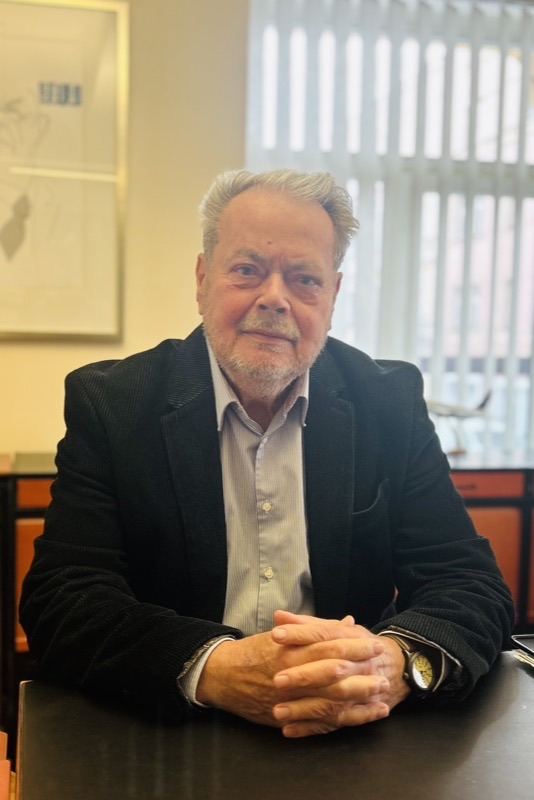
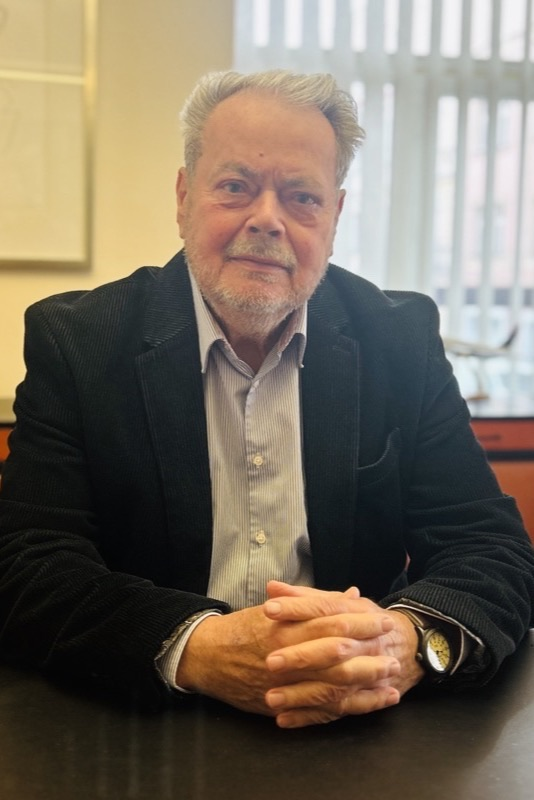
ok-tours: client update — new Trejtnar photo, mottos, contact hours
- Replace Pavel Trejtnar's photo with the client's new shot (cropped
  + resized to 534x800, matching the other team portraits); cache-bust
  bumped to v=20260519
- Add real leadership mottos under each team photo (CS + EN translated),
  replacing the Lorem ipsum placeholders
- Contacts: business hours 8:00-18:00 -> 8:30-17:30 (visible text +
  JSON-LD openingHours)
- Contacts: emergency line now "pro smluvní klienty" + phone 221 509 196

diff --git a/index-en.html b/index-en.html
@@ -91,8 +91,8 @@
         "openingHoursSpecification": {
           "@type": "OpeningHoursSpecification",
           "dayOfWeek": ["Monday","Tuesday","Wednesday","Thursday","Friday"],
-          "opens": "08:00",
-          "closes": "18:00"
+          "opens": "08:30",
+          "closes": "17:30"
         }
       },
       {
@@ -824,11 +824,11 @@
     <p class="lead">Behind every successful trip stands an experienced professional. Our team is made up of experts with years of practice in the travel industry, always at your service.</p>
     <div class="team-grid">
       <div class="team-card">
-        <div class="team-photo" style="background-image:url('team/pavel-trejtnar.jpg?v=20260518');" role="img" aria-label="Pavel Trejtnar"></div>
+        <div class="team-photo" style="background-image:url('team/pavel-trejtnar.jpg?v=20260519');" role="img" aria-label="Pavel Trejtnar"></div>
         <div class="team-info">
           <h4>Pavel Trejtnar</h4>
           <div class="role">Chairman of the Board, CEO</div>
-          <p class="motto">Lorem ipsum dolor sit amet, consectetur adipiscing elit.</p>
+          <p class="motto">“Success is in the detail.”</p>
         </div>
       </div>
       <div class="team-card">
@@ -836,7 +836,7 @@
         <div class="team-info">
           <h4>Petr Skřivan</h4>
           <div class="role">Vice-Chairman, Chief Financial Officer</div>
-          <p class="motto">Consectetur adipiscing elit, sed do eiusmod tempor incididunt.</p>
+          <p class="motto">“The numbers have to add up so travel dreams can take flight.”</p>
         </div>
       </div>
       <div class="team-card">
@@ -844,7 +844,7 @@
         <div class="team-info">
           <h4>Silvie Trejtnarová</h4>
           <div class="role">Board Member<br>Marketing &amp; Customer Relations</div>
-          <p class="motto">Ut enim ad minim veniam, quis nostrud exercitation ullamco.</p>
+          <p class="motto">“When you put your heart into your work, it shows.”</p>
         </div>
       </div>
       <div class="team-card">
@@ -852,7 +852,7 @@
         <div class="team-info">
           <h4>Marek Plášil</h4>
           <div class="role">Director of Business Travel</div>
-          <p class="motto">Duis aute irure dolor in reprehenderit in voluptate velit.</p>
+          <p class="motto">“Cooperation is built on decency and trust.”</p>
         </div>
       </div>
     </div>
@@ -934,7 +934,7 @@
           <div class="ci-icon">🕐</div>
           <div>
             <h4>Business Hours</h4>
-            <p>Mon–Fri: 8:00 AM – 6:00 PM<br/>24/7 emergency support for travelers</p>
+            <p>Mon–Fri: 8:30 AM – 5:30 PM<br/>24/7 emergency support for contractual travelers: 221 509 196</p>
           </div>
         </div>
       </div>

diff --git a/index.html b/index.html
@@ -91,8 +91,8 @@
         "openingHoursSpecification": {
           "@type": "OpeningHoursSpecification",
           "dayOfWeek": ["Monday","Tuesday","Wednesday","Thursday","Friday"],
-          "opens": "08:00",
-          "closes": "18:00"
+          "opens": "08:30",
+          "closes": "17:30"
         }
       },
       {
@@ -825,11 +825,11 @@
     <p class="lead">Za každou úspěšnou cestou stojí zkušený člověk. Náš tým tvoří odborníci s letitou praxí v cestovním ruchu, kteří jsou vám vždy k dispozici.</p>
     <div class="team-grid">
       <div class="team-card">
-        <div class="team-photo" style="background-image:url('team/pavel-trejtnar.jpg?v=20260518');" role="img" aria-label="Pavel Trejtnar"></div>
+        <div class="team-photo" style="background-image:url('team/pavel-trejtnar.jpg?v=20260519');" role="img" aria-label="Pavel Trejtnar"></div>
         <div class="team-info">
           <h4>Pavel Trejtnar</h4>
           <div class="role">Předseda představenstva, CEO</div>
-          <p class="motto">Lorem ipsum dolor sit amet, consectetur adipiscing elit.</p>
+          <p class="motto">„Úspěch je o detailu."</p>
         </div>
       </div>
       <div class="team-card">
@@ -837,7 +837,7 @@
         <div class="team-info">
           <h4>Petr Skřivan</h4>
           <div class="role">Místopředseda představenstva, Finanční ředitel</div>
-          <p class="motto">Consectetur adipiscing elit, sed do eiusmod tempor incididunt.</p>
+          <p class="motto">„Čísla musí sedět, aby sny o cestách mohly létat."</p>
         </div>
       </div>
       <div class="team-card">
@@ -845,7 +845,7 @@
         <div class="team-info">
           <h4>Silvie Trejtnarová</h4>
           <div class="role">Člen představenstva<br>Marketing &amp; Customer Relations</div>
-          <p class="motto">Ut enim ad minim veniam, quis nostrud exercitation ullamco.</p>
+          <p class="motto">„Když do práce vložíte srdce, je to znát."</p>
         </div>
       </div>
       <div class="team-card">
@@ -853,7 +853,7 @@
         <div class="team-info">
           <h4>Marek Plášil</h4>
           <div class="role">Ředitel Business Travel</div>
-          <p class="motto">Duis aute irure dolor in reprehenderit in voluptate velit.</p>
+          <p class="motto">„Spolupráce se zakládá na slušnosti a důvěře."</p>
         </div>
       </div>
     </div>
@@ -935,7 +935,7 @@
           <div class="ci-icon">🕐</div>
           <div>
             <h4>Provozní doba</h4>
-            <p>Po–Pá: 8:00 – 18:00<br/>Pohotovost 24/7 pro klienty na cestách</p>
+            <p>Po–Pá: 8:30 – 17:30<br/>Pohotovost 24/7 pro smluvní klienty na cestách: 221 509 196</p>
           </div>
         </div>
       </div>
